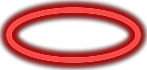
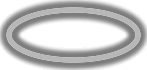
Added highlighting of winning line

diff --git a/4tec/src/TokenManager.cpp b/4tec/src/TokenManager.cpp
@@ -1,5 +1,35 @@
 #include <TokenManager.h>
 
+TokenManager::TokenManager()
+{
+	loadTextures();
+
+	sf::Vector2u boardSize =
+		m_manager->getTexture("board")->getSize();
+
+	static std::array<float, 4> heights{ .104f, .29f, .521f, .8125f };
+
+	static std::array<float, 16> widths{
+		.248f, .428f, .598f, .774f,
+		.220f, .412f, .598f, .79f,
+		.192f, .395f, .604f, .819f,
+		.146f, .384f, .610f, .847f
+	};
+
+	for (int i = 0; i < m_positions.size(); ++i)
+	{
+		float layerHeight = boardSize.y / 4.f;
+		int layer = i / 4;
+
+		float xPos = boardSize.x * widths.at(i % 16);
+		float yPos = layerHeight * (i / 16) + (layerHeight * heights.at(layer % 4));
+
+		m_positions.at(i) = { xPos, yPos };
+	}
+}
+
+///////////////////////////////////////////////////////////////////////////////
+
 void TokenManager::loadTextures()
 {
 	m_manager = TextureManager::getInstance();
@@ -14,39 +44,36 @@ void TokenManager::loadTextures()
 
 ///////////////////////////////////////////////////////////////////////////////
 
-void TokenManager::placePiece(Move t_move)
+void TokenManager::placePiece(Move t_move, Player t_player, bool t_highlight)
 {
 	uint8_t layer, row, col;
 	std::tie(layer, row, col) = t_move;
 
+	uint8_t index = 16 * layer + 4 * row + col;
+
 	m_boardRender[4].clear(sf::Color::Transparent);
-	sf::Vector2u tx = 
-		m_manager->getTexture("board")->getSize();
-
-	float layerWidth = tx.y / 4.0f;
-	static std::array<float, 4> heights{ .104f, .29f, .521f, .8125f };
-
-	static std::array<float, 16> widths{
-		.248f, .428f, .598f, .774f,
-		.220f, .412f, .598f, .79f,
-		.192f, .395f, .604f, .819f,
-		.146f, .384f, .610f, .847f
-	};
 
 	// .55, .6, .78, 1
 	static std::array<float, 4> spriteScale{ .68f,.79f,.89f,1 };
 
-	unsigned index = 4 * row + col;
 	sf::Sprite r;
-	const char* tex = (m_red) ? "red" : "yellow";
+	const char* tex = (Player::RED == t_player) ? "red" : "yellow";
 	r.setTexture(*m_manager->getTexture(tex));
 	sf::Vector2u texSize = r.getTexture()->getSize();
 	r.setOrigin(texSize.x / 2.0f, texSize.y / 2.0f);
 	r.setScale(spriteScale[row], spriteScale[row]);
-	m_red = !m_red;
+
+	if (t_highlight)
+		r.setColor(sf::Color::Cyan);
+	else
+		r.setColor(
+			(Player::RED == t_player)
+			? sf::Color::Red
+			: sf::Color::Yellow
+		);
 
 	int pos = col;
-	r.setPosition(tx.x * widths[index], layerWidth * heights[index / 4] + (layerWidth * layer));
+	r.setPosition(m_positions.at(index));
 
 	m_boardRender[row].draw(r);
 	m_boardRender[row].display();
@@ -61,6 +88,22 @@ void TokenManager::placePiece(Move t_move)
 	m_boardRender[4].display();
 
 	m_board.setTexture(m_boardRender[4].getTexture());
+}
+
+///////////////////////////////////////////////////////////////////////////////
+
+void TokenManager::highlightWin(array<uint8_t, 4> t_win, Player t_player)
+{
+	uint8_t layer, row, col;
+
+	for (uint8_t& index : t_win)
+	{
+		layer = index / 16;
+		row = (index - layer * 16) / 4;
+		col = index - (layer * 16 + row * 4);
+
+		placePiece(Move(layer, row, col), t_player, true);
+	}	
 }
 
 ///////////////////////////////////////////////////////////////////////////////

diff --git a/4tec/src/GameManager.cpp b/4tec/src/GameManager.cpp
@@ -1,9 +1,6 @@
 #include <GameManager.h>
 
-GameManager::GameManager()
-{
-	_tokenManager.loadTextures();
-}
+GameManager::GameManager() {}
 
 ////////////////////////////////////////////////////////////
 
@@ -19,19 +16,28 @@ bool GameManager::makeMove(Move t_move)
 		// Commit the player's move to the board
 		_gameBoard |= _currentPlayerTokens;
 
+		_tokenManager.placePiece(t_move, _currentPlayer);
+
+		Board winningLine;
+
 		// Check if that was a winning move for the current player
-		if (_boardManager.checkForWin(_currentPlayerTokens))
+		if (_boardManager.checkForWin(_currentPlayerTokens, winningLine))
 		{
 			(Player::RED == _currentPlayer)
 				? std::cout << "Red player wins!" << std::endl
 				: std::cout << "Yellow player wins!" << std::endl;
 
+			array<uint8_t, 4> winningIndices;
+
+			for (uint8_t i = 0, j = 0; i < winningLine.size(); ++i)
+				if (winningLine.test(i)) winningIndices.at(j++) = i;
+
+			_tokenManager.highlightWin(winningIndices, _currentPlayer);
+
 			_gameOver = true;
 		}
 		
 		swapPlayers();
-
-		_tokenManager.placePiece(t_move);
 
 		return true;
 	}

diff --git a/4tec/include/TokenManager.h b/4tec/include/TokenManager.h
@@ -12,22 +12,33 @@
 class TokenManager
 {
 public:
-	TokenManager() = default;
+
+	enum class Type
+	{
+		RED,
+		YELLOW
+	};
+
+	TokenManager();
 	~TokenManager() = default;
 
-	void loadTextures();
+	void placePiece(Move t_move, Player t_player, bool t_highlight = false);
 
-	void placePiece(Move t_move);
+	void highlightWin(array<uint8_t, 4> t_win, Player t_player);
 
 	void reset();
 
 	sf::Sprite& getSprite() { return m_board; }
 
 private:
+	void loadTextures();
+
+	Board m_yellowTokens, m_redTokens;
+	array<sf::Vector2f, 64> m_positions;
+
 	TextureManager* m_manager;
 	std::array<sf::RenderTexture, 5> m_boardRender;
 	sf::Sprite m_board;
-	bool m_red{ false };
 };
 
 #endif

diff --git a/4tec/src/BoardManager.cpp b/4tec/src/BoardManager.cpp
@@ -56,11 +56,14 @@ bool BoardManager::isValid(Board& t_board, Move t_move)
 
 ////////////////////////////////////////////////////////////
 
-bool BoardManager::checkForWin(Board& t_board)
+bool BoardManager::checkForWin(Board& t_board, Board& t_win)
 {
 	for (auto& wl : _winningLines)
 		if (4 == (t_board & *wl).count())
+		{
+			t_win = *wl;
 			return true;
+		}
 
 	return false;
 }

diff --git a/4tec/include/BoardManager.h b/4tec/include/BoardManager.h
@@ -24,7 +24,7 @@ public:
 	/// </summary>
 	bool isValid(Board& t_board, Move t_move);
 
-	bool checkForWin(Board& t_board);
+	bool checkForWin(Board& t_board, Board& t_win);
 
 private:
 	void loadWinningLines();
